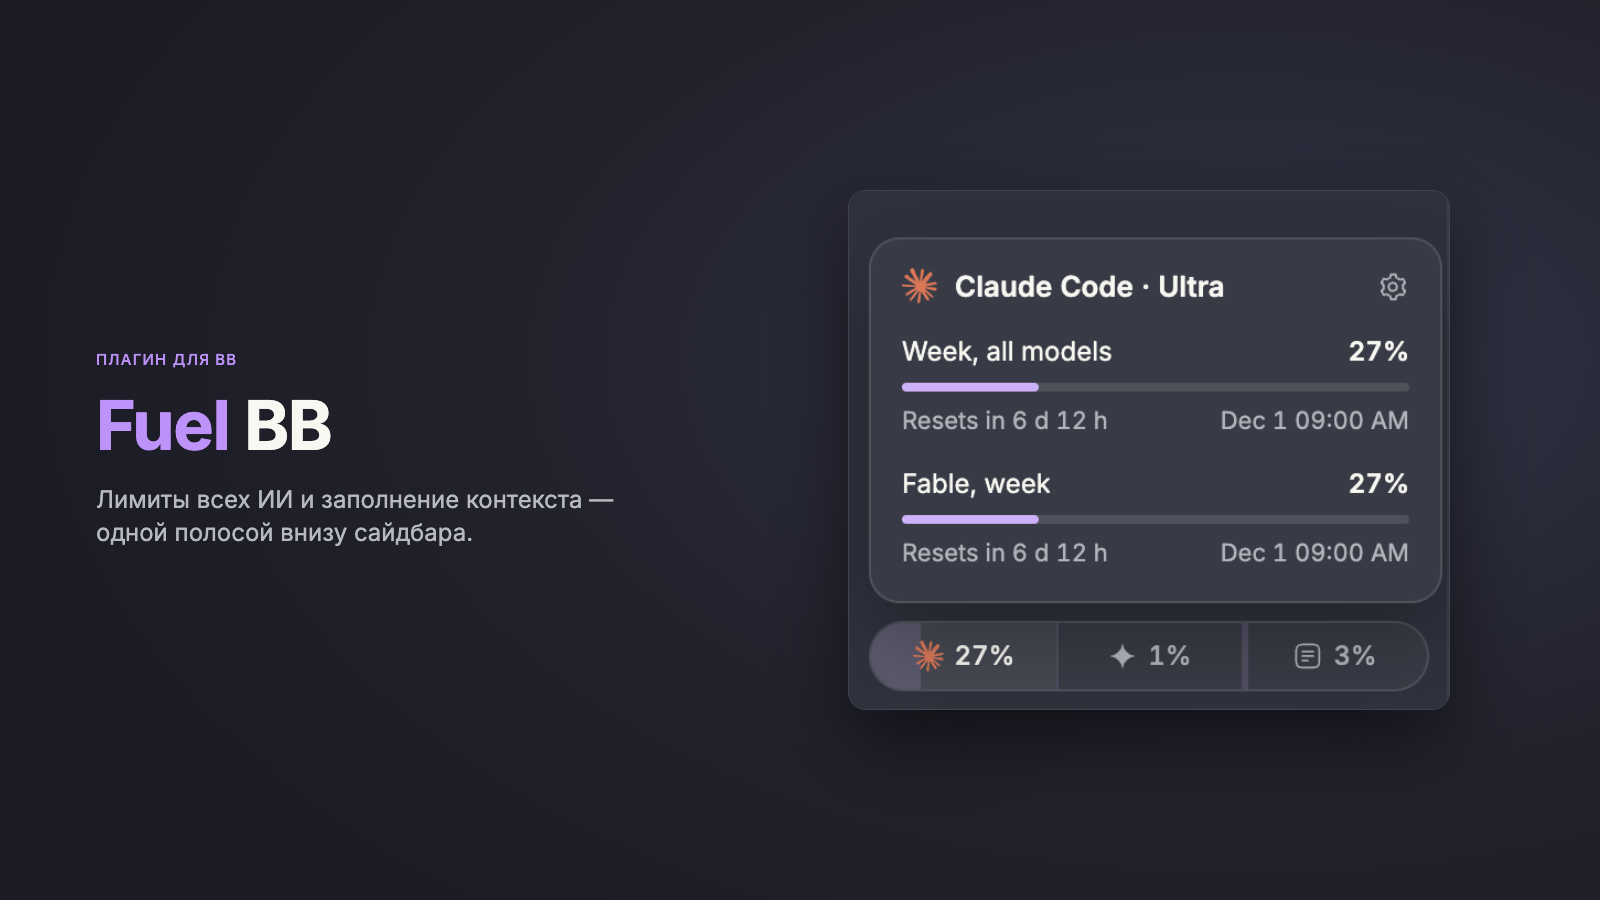
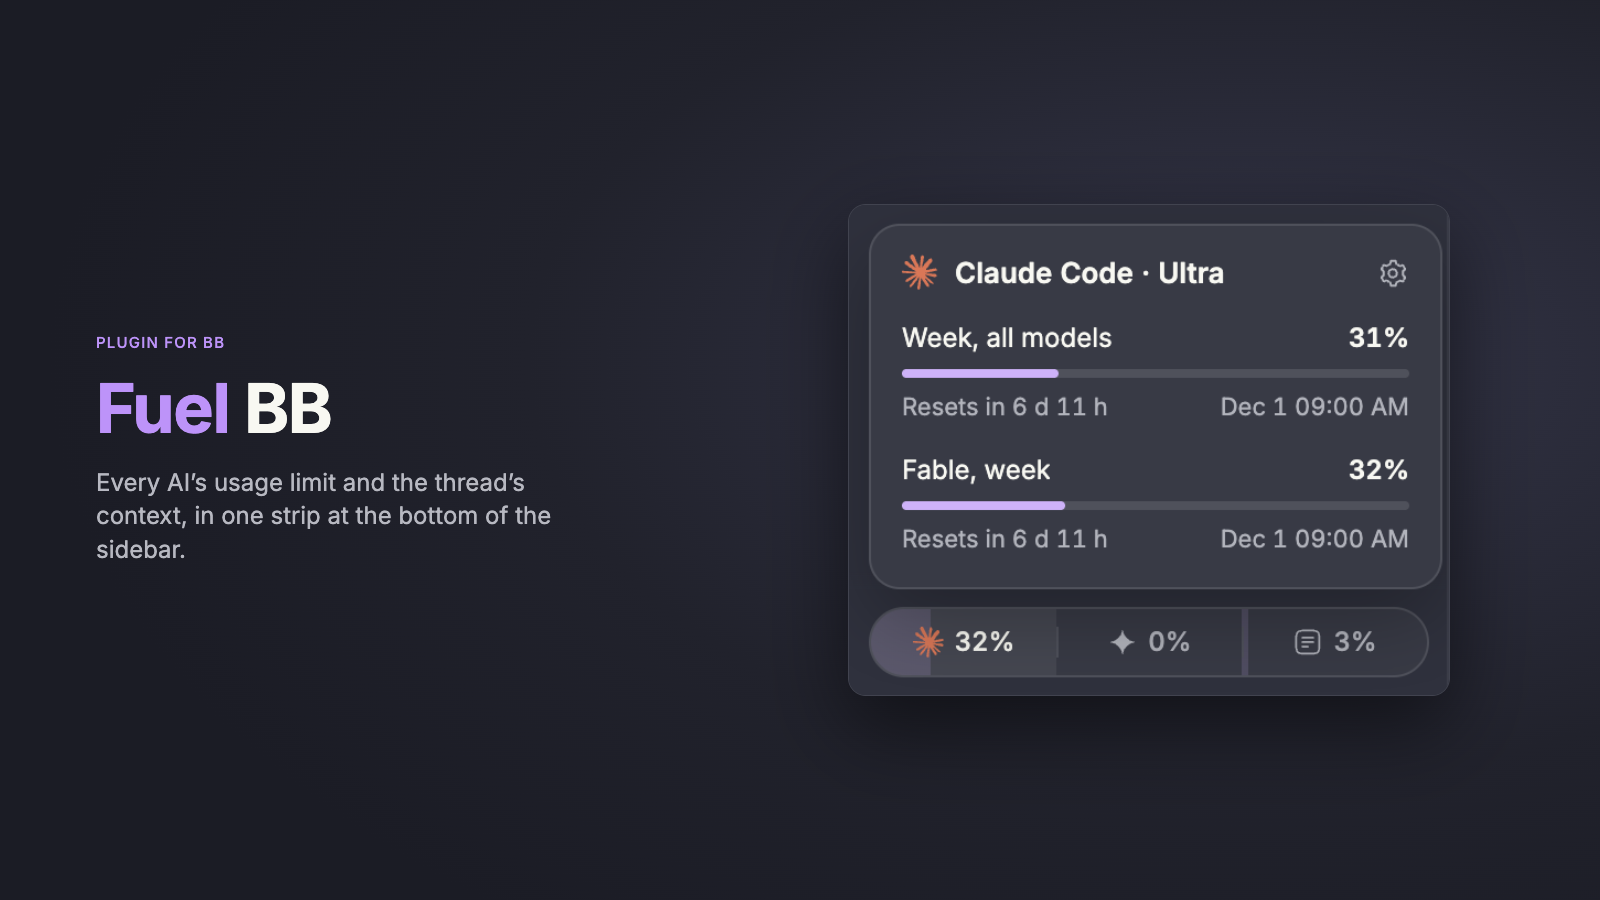
docs: English-only README and cover

diff --git a/skills/fuel-bb/SKILL.md b/skills/fuel-bb/SKILL.md
@@ -19,7 +19,7 @@ Off by default: the plugin setting `accountSwitching` (`bb plugin config fuel-bb
 - `bb fuel remove-account <id>` — forget a saved login.
 - `bb fuel save-account [label]` — save the current login now (the plugin also saves and refreshes it on every poll).
 
-Saved logins are copies of the Keychain item `gemini`/`antigravity` under the service `limits-panel-gemini-accounts`; plugin storage holds only ids, labels and emails. «+ Добавить аккаунт» in the Gemini popover parks the current login, runs `agy` in a bb terminal (it picks Google OAuth), shows its Google sign-in link and an authorization-code field, saves the new login when it lands and closes the terminal; cancelling or a 5-minute timeout restores the previous account. Do not use agy's `/logout` to change accounts: it may revoke the token a saved copy relies on. An Antigravity thread runs `agy-acp`, which starts a fresh `agy --conversation` per turn; that process reads the login when it starts, so a turn already running finishes on the old account. After a switch the plugin stops idle `acp-antigravity` threads at once (`threads.stop` releases the runtime; the next message starts a new one) and queues answering ones, stopping each when it goes idle; the queue survives plugin reloads. The Gemini popover shows how many are queued and offers a confirmed restart-now that interrupts them.
+Saved logins are copies of the Keychain item `gemini`/`antigravity` under the service `limits-panel-gemini-accounts`; plugin storage holds only ids, labels and emails. "+ Add account" in the Gemini popover parks the current login, runs `agy` in a bb terminal (it picks Google OAuth), shows its Google sign-in link and an authorization-code field, saves the new login when it lands and closes the terminal; cancelling or a 5-minute timeout restores the previous account. Do not use agy's `/logout` to change accounts: it may revoke the token a saved copy relies on. An Antigravity thread runs `agy-acp`, which starts a fresh `agy --conversation` per turn; that process reads the login when it starts, so a turn already running finishes on the old account. After a switch the plugin stops idle `acp-antigravity` threads at once (`threads.stop` releases the runtime; the next message starts a new one) and queues answering ones, stopping each when it goes idle; the queue survives plugin reloads. The Gemini popover shows how many are queued and offers a confirmed restart-now that interrupts them.
 
 ## Gemini quota source
 

diff --git a/README.md b/README.md
@@ -93,16 +93,3 @@ bb plugin install https://github.com/xaibu9/bb-plugin-fuel.git
 ```
 
 From a checkout: `npm install && bb plugin build && bb plugin install . --yes`.
-
----
-
-## По-русски
-
-Полоса внизу сайдбара: по кнопке на каждого провайдера, которого bb сам показывает
-в лимитах (Claude Code, Kimi Code, Cursor, OpenCode и другие), и кнопка контекста
-открытого чата. Нет провайдера или нет входа — нет кнопки. Gemini (Antigravity) bb
-не отдаёт, плагин читает его сам через `agy`, только на macOS; включается галочкой в
-настройках. Переключение аккаунтов Antigravity выключено по умолчанию. Если его
-включить, плагин копирует вход agy в Google из Связки ключей macOS в свои записи и
-подменяет его при переключении. Цвета берутся из темы bb, а акцент общий с
-Folio BB: поменяли цвет в сайдбаре — полоса перекрасилась сразу.
